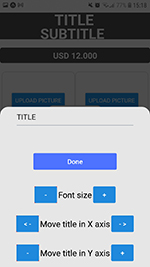
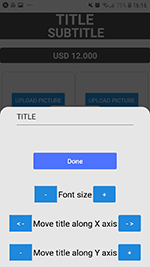
fixed typo

diff --git a/components/modals/modalTitulo/titulo.tsx b/components/modals/modalTitulo/titulo.tsx
@@ -93,7 +93,7 @@ const ModalTitulo = ({
             <BotonTextoBoton
               accionMas={() => desplazar(ACTIONS.DESPLAZAR_DERECHA)}
               accionMenos={() => desplazar(ACTIONS.DESPLAZAR_IZQUIERDA)}
-              texto={"Move title in X axis"}
+              texto={"Move title along X axis"}
               titleBotonMas={'- >'}
               titleBotonMenos={"< -"}
             />
@@ -107,7 +107,7 @@ const ModalTitulo = ({
               accionMenos={() =>
                 desplazarTituloVertical(ACTIONS.DESPLAZAR_TITULO_ARRIBA)
               }
-              texto={"Move title in Y axis"}
+              texto={"Move title along Y axis"}
               titleBotonMas={"+"}
               titleBotonMenos={"-"}
             />
@@ -142,7 +142,7 @@ const ModalTitulo = ({
 
             <BotonTextoBoton accionMas={() => {desplazarSubtitle(ACTIONS.DESPLAZAR_DERECHA_SUBTITLE)}}
             accionMenos = {() => desplazarSubtitle(ACTIONS.DESPLAZAR_IZQUIERDA_SUBTITLE)}
-            texto = {'Move subtitle in X axis'}
+            texto = {'Move subtitle along X axis'}
             titleBotonMas = {'- >'}
             titleBotonMenos = {'< -'}
             />
@@ -151,7 +151,7 @@ const ModalTitulo = ({
 
             <BotonTextoBoton accionMas={() => desplazarSubTituloVertical(ACTIONS.DESPLAZAR_SUBTITULO_ABAJO)}
             accionMenos = {() => desplazarSubTituloVertical(ACTIONS.DESPLAZAR_SUBTITULO_ARRIBA)}
-            texto = {'Move subtitle in Y axis'}
+            texto = {'Move subtitle along Y axis'}
             titleBotonMas = {'+'}
             titleBotonMenos = {'-'}
             />
